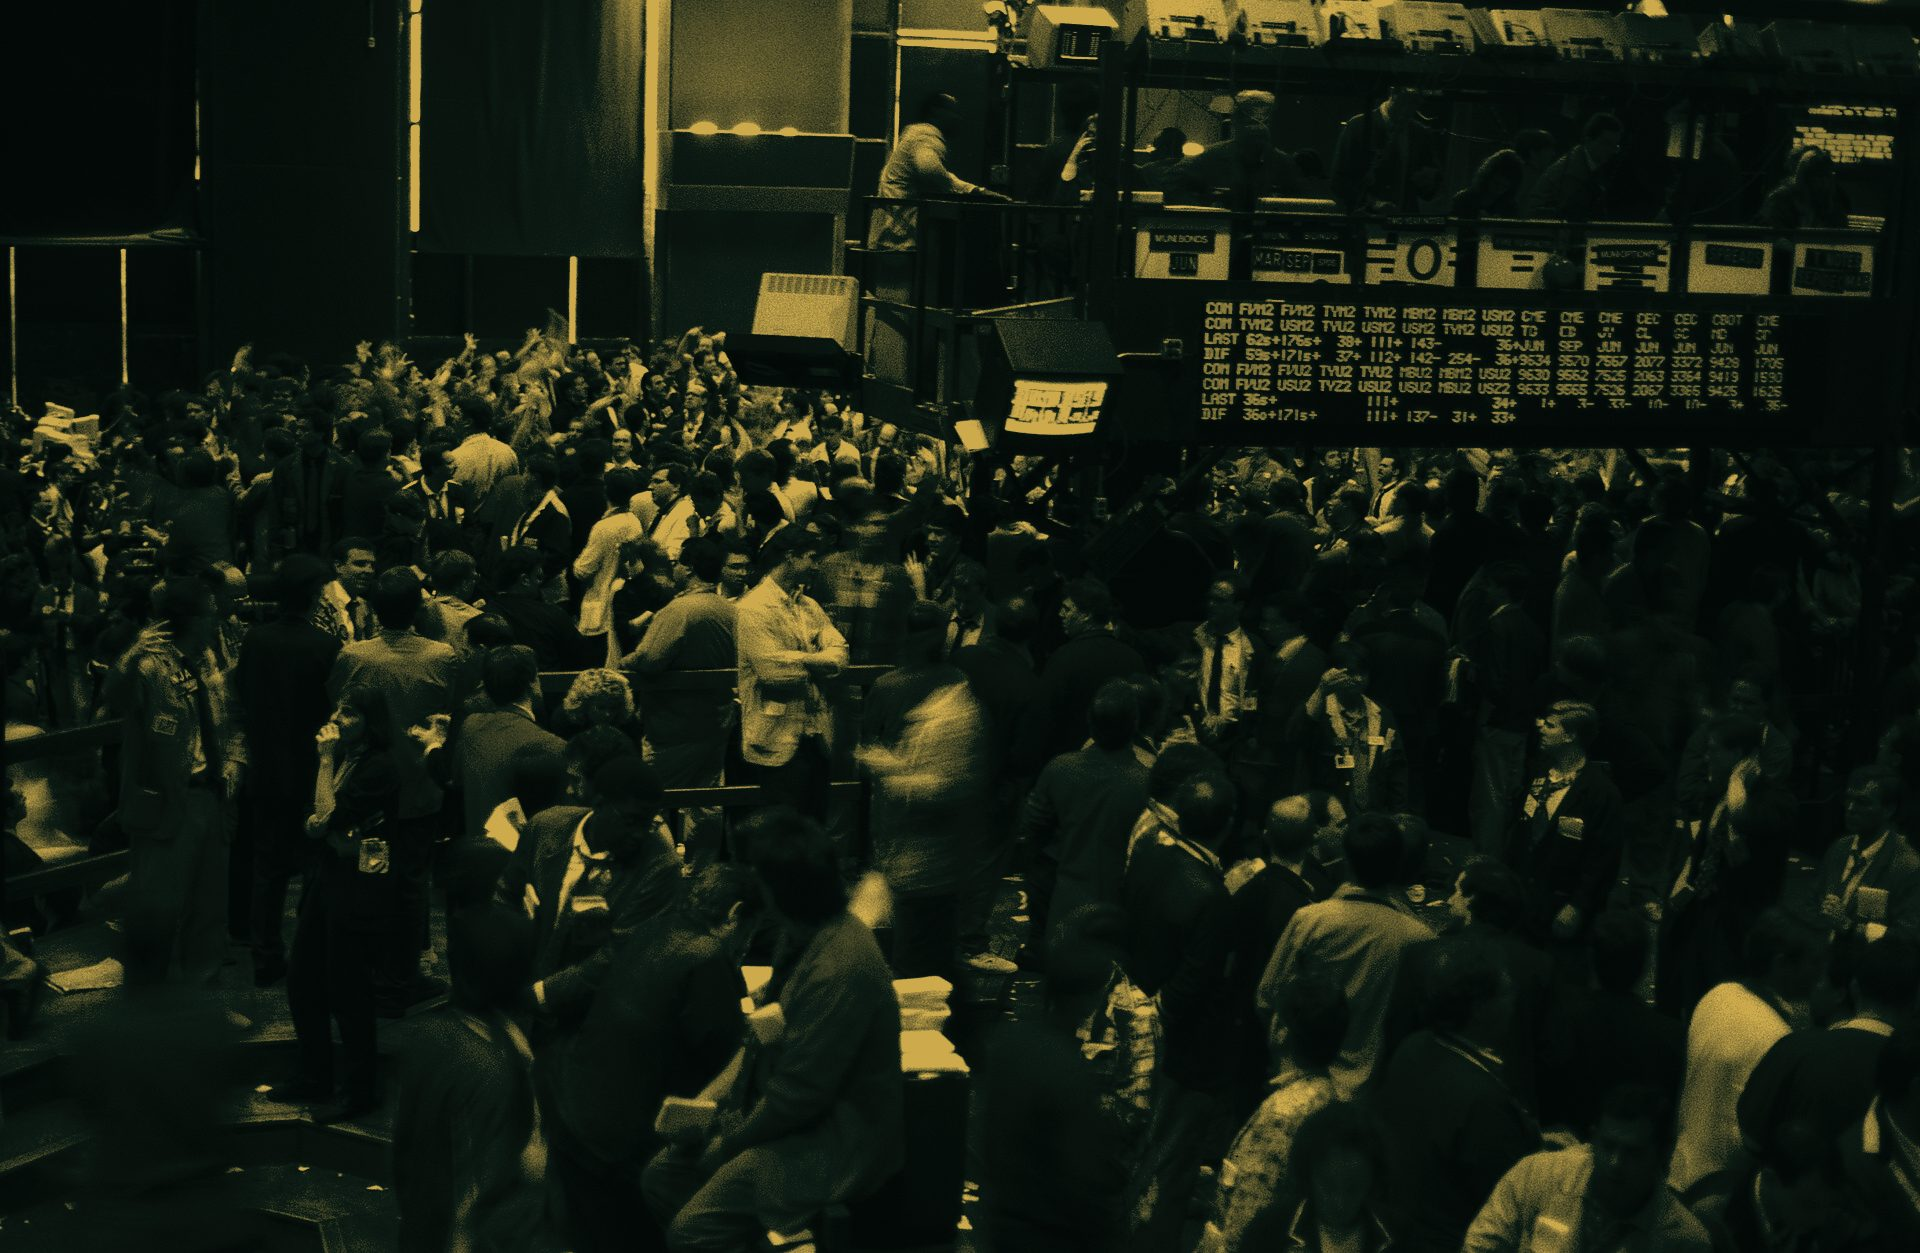
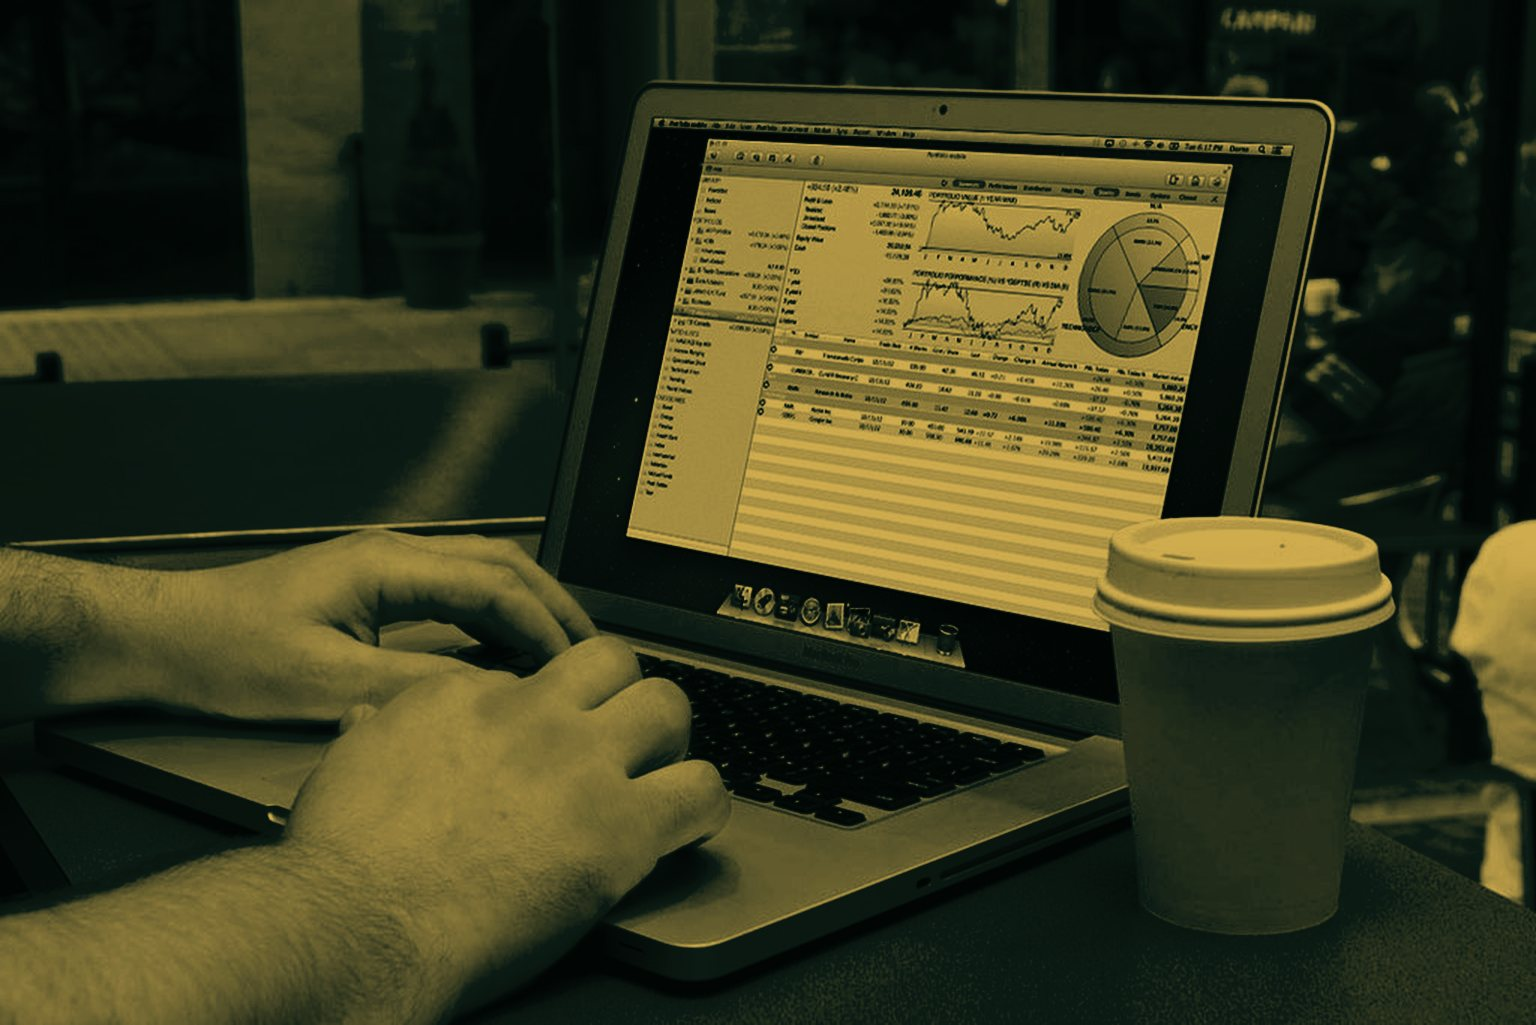
Hero: relatable home-trader laptop photo (replaces trading-floor shot)

diff --git a/index.html b/index.html
@@ -662,7 +662,7 @@ footer{background:var(--bg-deep);border-top:1px solid var(--line);padding:56px 0
     <div class="foot-copy">
       <span>© 2026 Smart FX Facts</span>
       <span>Educational content only · Not financial advice</span>
-      <span>Hero photo: Lars Plougmann · CC BY-SA 2.0</span>
+      <span>Hero photo: ota_photos (Flickr) · CC BY-SA 2.0</span>
     </div>
   </div>
 </footer>
